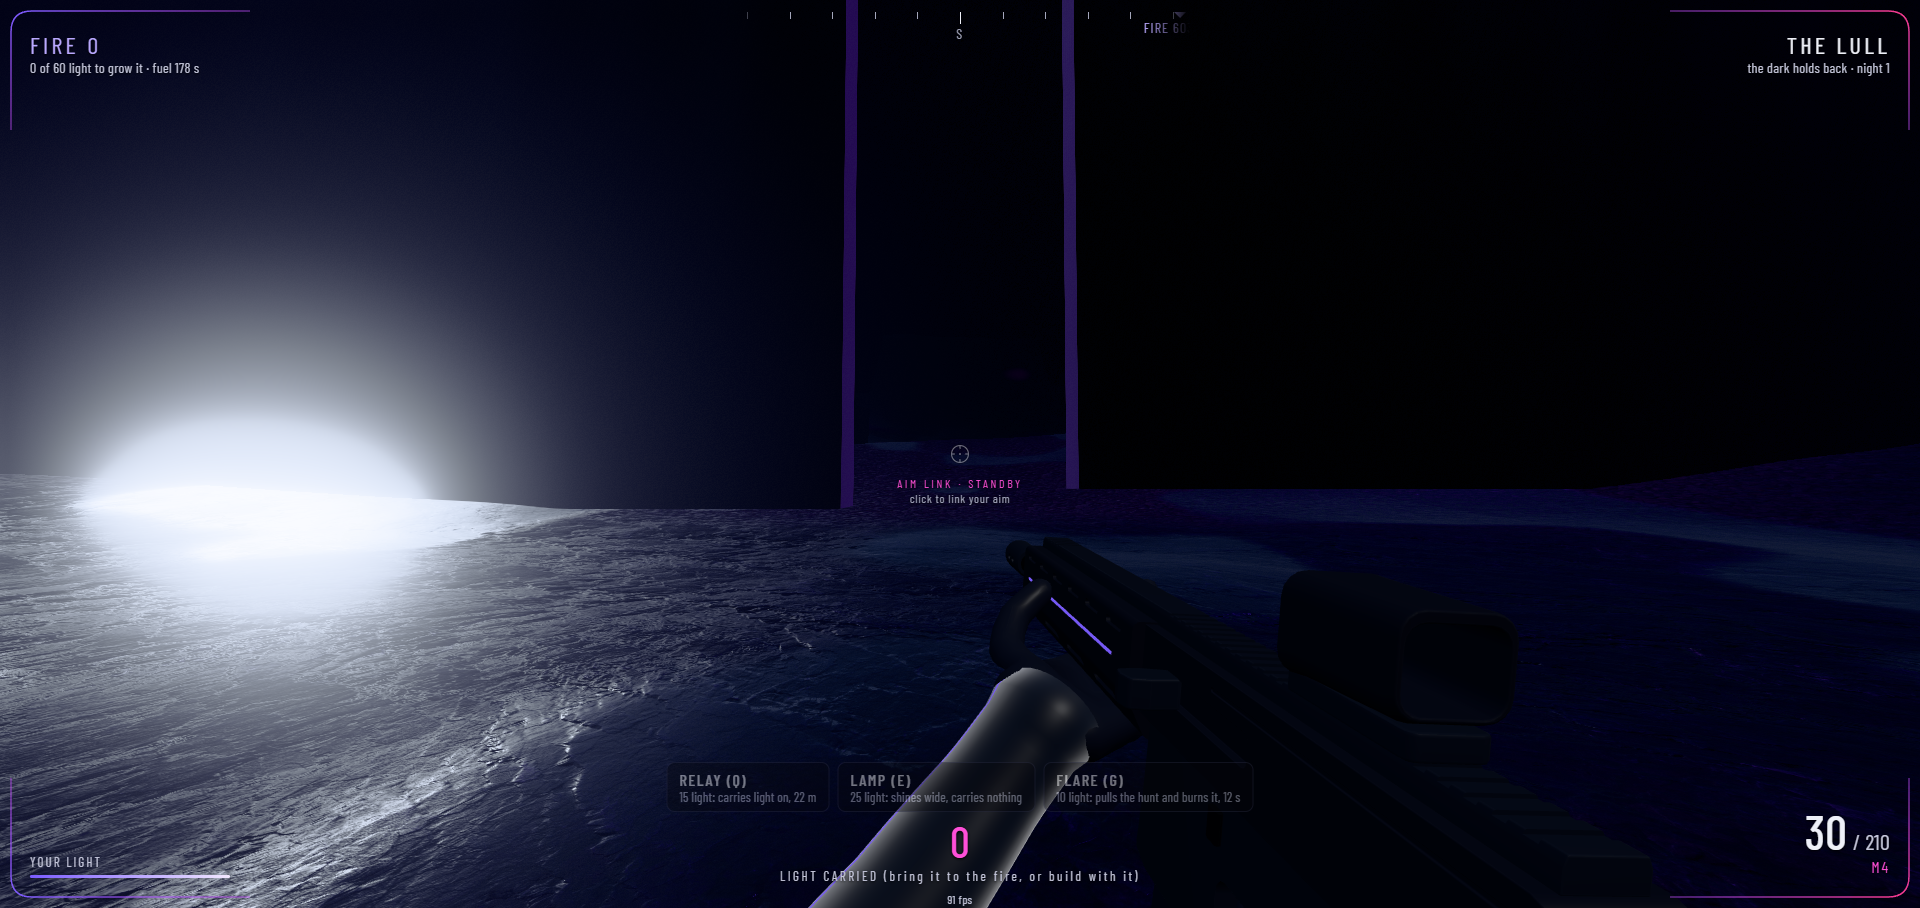
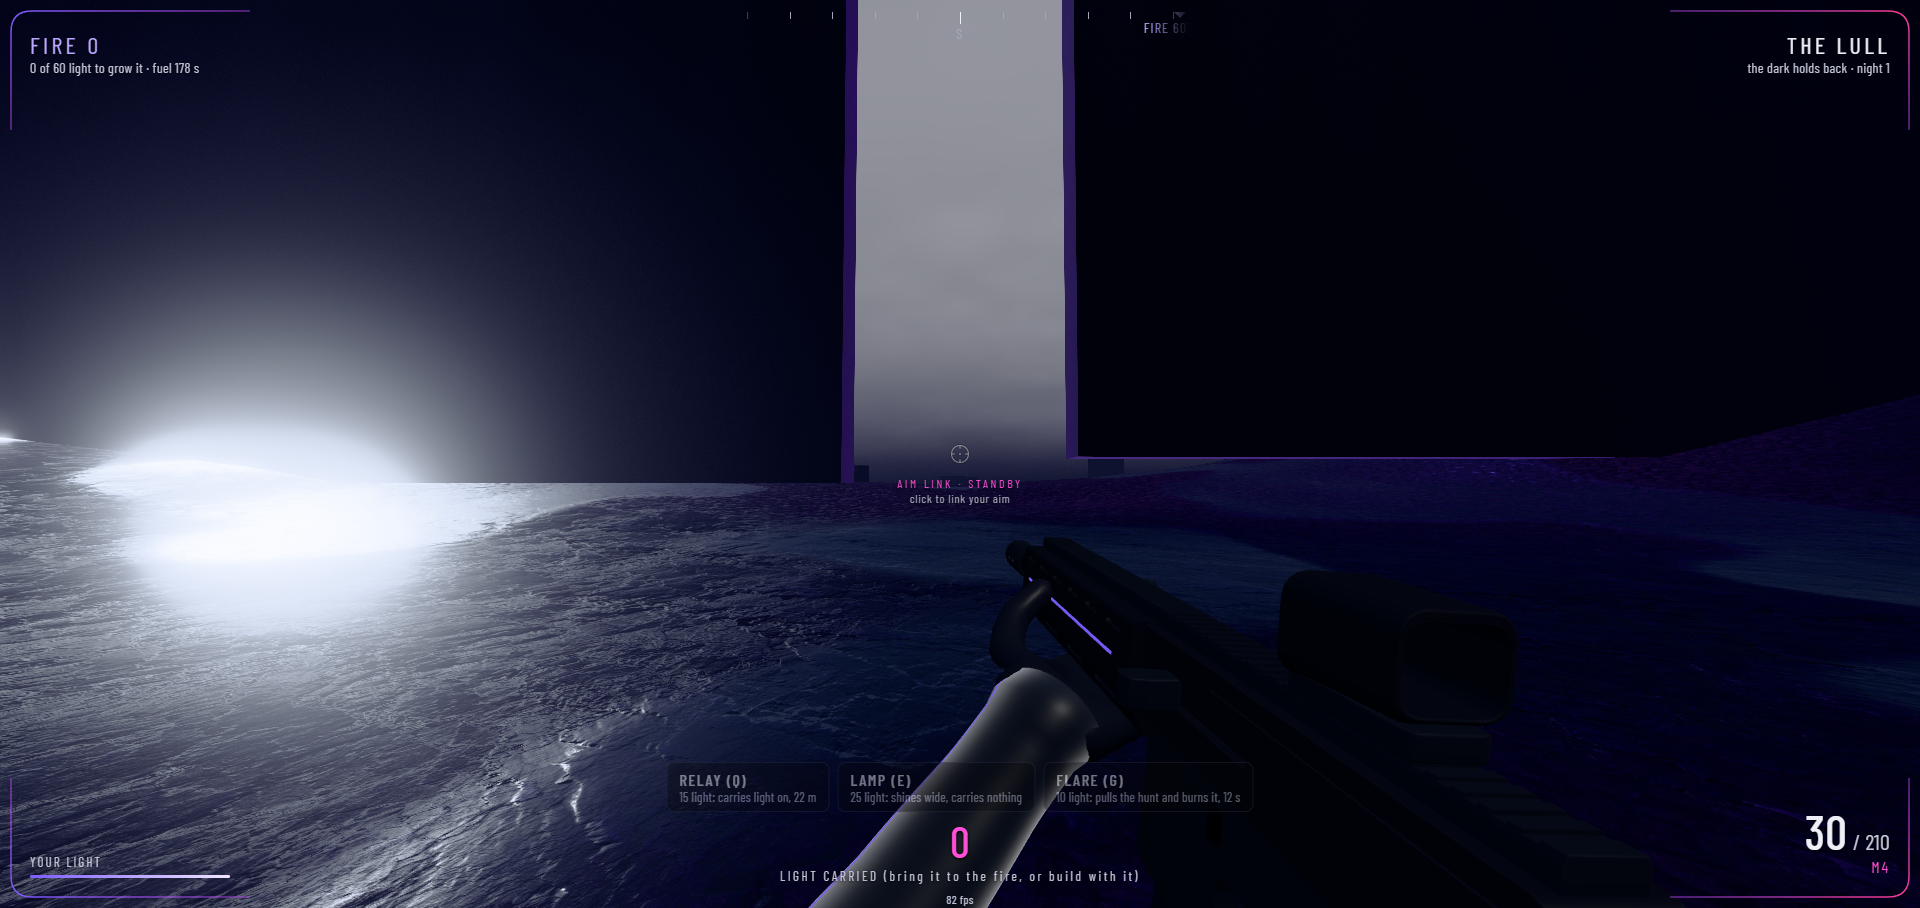
v161: the sky follows the camera (Earth had none), Earth's overcast day and starry night drive fog and ambient light

Changed region(s): [[0.0, 0.0, 1.0, 1.0], [0.4688, 0.9868, 0.5312, 1.0], [0.375, 0.7709, 0.4375, 0.8018]]

diff --git a/next/client/main.js b/next/client/main.js
@@ -1,37 +1,37 @@
 // Last Fire (the new foundation), piece 1: drawing, sound and input around the rules in core/game.js.
 // The rules run here as host; nothing in this file decides what happens, only what you see, hear and send in.
 import * as THREE from 'three';
-import * as C from '../core/game.js?v=160';
-import { Ambience } from './ambience.js?v=160';
-import { Camp, BOARD } from './camp.js?v=160';
-import { Guide } from './guide.js?v=160';
-import { buildSites } from './earthsite.js?v=160';
-import { Truck } from './truck.js?v=160';
-import { ShipView } from './shipview.js?v=160';
-import { Crew } from './crew.js?v=160';
-import { Hands } from './hands.js?v=160';
-import { FpRig } from './fprig.js?v=160';
-import { farStep } from './farsound.js?v=160';
-import { Wrist } from './wrist.js?v=160';
-import { FireCore } from './firecore.js?v=160';
+import * as C from '../core/game.js?v=161';
+import { Ambience } from './ambience.js?v=161';
+import { Camp, BOARD } from './camp.js?v=161';
+import { Guide } from './guide.js?v=161';
+import { buildSites } from './earthsite.js?v=161';
+import { Truck } from './truck.js?v=161';
+import { ShipView } from './shipview.js?v=161';
+import { Crew } from './crew.js?v=161';
+import { Hands } from './hands.js?v=161';
+import { FpRig } from './fprig.js?v=161';
+import { farStep } from './farsound.js?v=161';
+import { Wrist } from './wrist.js?v=161';
+import { FireCore } from './firecore.js?v=161';
 import { EffectComposer } from '../../vendor/jsm/postprocessing/EffectComposer.js';
 import { RenderPass } from '../../vendor/jsm/postprocessing/RenderPass.js';
 import { UnrealBloomPass } from '../../vendor/jsm/postprocessing/UnrealBloomPass.js';
 import { OutputPass } from '../../vendor/jsm/postprocessing/OutputPass.js';
 import { ShaderPass } from '../../vendor/jsm/postprocessing/ShaderPass.js';
-import { think as friendThink } from './friend.js?v=160';
-import { FriendVoice } from './friendvoice.js?v=160';
-import { crewFrom } from '../core/habits.js?v=160';
-import { HudLook } from './hudlook.js?v=160';
-import { applyLook } from './looks.js?v=160';
-import { Net, roomCode, cleanCode, CODE_LEN, MAX_PLAYERS } from './net.js?v=160';
-import { sound, GUNS } from '../../src/combat.js?v=160';
-import { FX } from '../../src/fx.js?v=160';
+import { think as friendThink } from './friend.js?v=161';
+import { FriendVoice } from './friendvoice.js?v=161';
+import { crewFrom } from '../core/habits.js?v=161';
+import { HudLook } from './hudlook.js?v=161';
+import { applyLook } from './looks.js?v=161';
+import { Net, roomCode, cleanCode, CODE_LEN, MAX_PLAYERS } from './net.js?v=161';
+import { sound, GUNS } from '../../src/combat.js?v=161';
+import { FX } from '../../src/fx.js?v=161';
 import { GLTFLoader } from '../../vendor/jsm/loaders/GLTFLoader.js';
 import { clone as skClone } from '../../vendor/jsm/utils/SkeletonUtils.js';
 
 const $ = id => document.getElementById(id);
-const BUILD = 160;   // (this copy's version; ./version.json says the newest)
+const BUILD = 161;   // (this copy's version; ./version.json says the newest)
 const DEFAULTS = { sens: 1, vol: 0.8, fov: 78, adsSens: 0.65, aimToggle: true, sprintToggle: false, invertY: false, autoReload: true, cross: true };   // (his quality of life ask, 2026-10-19: aim is a toggle by default, and every one of these is a click in the pause menu)
 const SET = Object.assign({ ...DEFAULTS, name: '' }, (() => { try { return JSON.parse(localStorage.getItem('lastfire2') || '{}'); } catch (e) { return {}; } })());
 const save = () => { try { localStorage.setItem('lastfire2', JSON.stringify(SET)); } catch (e) {} };
@@ -60,7 +60,7 @@ const grade = new ShaderPass({ uniforms: { tDiffuse: { value: null }, uT: { valu
 composer.addPass(grade); composer.addPass(new OutputPass());
 const softDot = (() => { const c = document.createElement('canvas'); c.width = c.height = 64; const x = c.getContext('2d'), gr = x.createRadialGradient(32, 32, 0, 32, 32, 32); gr.addColorStop(0, 'rgba(255,255,255,1)'); gr.addColorStop(0.35, 'rgba(255,255,255,0.55)'); gr.addColorStop(1, 'rgba(255,255,255,0)'); x.fillStyle = gr; x.fillRect(0, 0, 64, 64); const t = new THREE.CanvasTexture(c); return t; })();   // (round, soft points: embers and motes were square specks)
 scene.fog = new THREE.FogExp2(0x04060c, 0.016); scene.background = new THREE.Color(0x02030a);
-scene.add(new THREE.HemisphereLight(0x5a6fb0, 0x020306, 0.09));   // (barely any moonlight: the dark is dark, the light is yours)
+const hemi = new THREE.HemisphereLight(0x5a6fb0, 0x020306, 0.09); scene.add(hemi); const FOG_NIGHT = new THREE.Color(0x04060c), FOG_EARTH_DAY = new THREE.Color(0x30333b);   // (barely any moonlight: the dark is dark, the light is yours)
 // the sky's logic, given to everything (his rule: the sky is the reference for pretty). Research: small bright accents read on large dark
 // fields, saturation shows in the dark (Hunt 2001), rim light separates a form from a dark background. So objects stay dark and get a thin
 // violet edge, taken from the sky's own violet, fading past 60 m; the ground gets rare mineral glints, stars underfoot.
@@ -76,9 +76,9 @@ THREE.ShaderChunk.emissivemap_fragment += `
 #endif`;
 function rimAll() { scene.traverse(o => { if (!o.isMesh || !o.material || o.material === groundMat) return; for (const m of Array.isArray(o.material) ? o.material : [o.material]) if (m.isMeshStandardMaterial && !m.userData.rim) { m.userData.rim = 1; m.defines = { ...(m.defines || {}), USE_RIM: '' }; m.needsUpdate = true; } }); }
 setInterval(() => { if (g) rimAll(); }, 2000);   // (new things get their edge within two seconds; a material is changed once)
-const sky = new THREE.Mesh(new THREE.SphereGeometry(800, 48, 24), new THREE.ShaderMaterial({ side: THREE.BackSide, depthWrite: false, fog: false, uniforms: { uT: { value: 0 }, uEarth: { value: 0 }, uFog: { value: scene.fog.color } },
+const sky = new THREE.Mesh(new THREE.SphereGeometry(800, 48, 24), new THREE.ShaderMaterial({ side: THREE.BackSide, depthWrite: false, fog: false, uniforms: { uT: { value: 0 }, uEarth: { value: 0 }, uDay: { value: 0 }, uFog: { value: scene.fog.color } },
   vertexShader: 'varying vec3 vD; void main(){ vD = normalize(position); gl_Position = projectionMatrix * modelViewMatrix * vec4(position, 1.0); }',
-  fragmentShader: `varying vec3 vD; uniform float uT; uniform float uEarth; uniform vec3 uFog;
+  fragmentShader: `varying vec3 vD; uniform float uT; uniform float uEarth; uniform float uDay; uniform vec3 uFog;
     float h(vec3 p){ p = fract(p * 0.3183 + 0.1); p *= 17.0; return fract(p.x * p.y * p.z * (p.x + p.y + p.z)); }
     float n(vec3 x){ vec3 i = floor(x), f = fract(x); f = f * f * (3.0 - 2.0 * f); return mix(mix(mix(h(i), h(i + vec3(1,0,0)), f.x), mix(h(i + vec3(0,1,0)), h(i + vec3(1,1,0)), f.x), f.y), mix(mix(h(i + vec3(0,0,1)), h(i + vec3(1,0,1)), f.x), mix(h(i + vec3(0,1,1)), h(i + vec3(1,1,1)), f.x), f.y), f.z); }
     float fbm(vec3 p){ float a = 0.5, s = 0.0; for (int i = 0; i < 5; i++) { s += a * n(p); p *= 2.03; a *= 0.5; } return s; }
@@ -98,6 +98,10 @@ const sky = new THREE.Mesh(new THREE.SphereGeometry(800, 48, 24), new THREE.Shad
       float nearS = step(0.988, nr) * (exp(-dot(nf, nf) * 1400.0) + 0.22 * exp(-abs(nf.x) * 110.0 - abs(nf.y) * 12.0) + 0.22 * exp(-abs(nf.y) * 110.0 - abs(nf.x) * 12.0));
       vec3 tint = mix(vec3(1.0, 0.94, 1.0), mix(vec3(0.72, 0.66, 1.0), vec3(1.0, 0.62, 0.86), step(0.5, h(mid + 2.0))), step(0.7, h(mid + 1.0)));
       col += (vec3(0.92, 0.9, 1.0) * stars + tint * midS * 1.6 + vec3(1.0, 0.95, 1.0) * nearS * 1.3) * sky;
+      if (uEarth > 0.5 && uDay > 0.0) {   /* Earth's day is overcast: a low dark-gray deck that breaks a little, the stars gone behind it (his picture: dark gray, fog mixed with dark) */
+        float cl = fbm(vec3(d.xz / max(d.y + 0.25, 0.08) * 0.9, uT * 0.01)), deck = mix(0.82, 1.18, smoothstep(0.3, 0.75, cl));
+        vec3 over = mix(vec3(0.2, 0.205, 0.235), vec3(0.34, 0.345, 0.385), smoothstep(-0.05, 0.7, d.y)) * deck;   /* (look 3 keeps true blacks: under about 0.15 the deck crushed to black) */
+        col = mix(col, over, uDay); }
       col = mix(uFog, col, smoothstep(-0.03, 0.24, d.y));   /* (the horizon is the fog's own color, so far ground and sky are one haze: no seam where the stars stop, his note 2026-10-19) */
       // Earth, seen from the Moon: blue where it is still itself, black where the dark has taken it, thin violet where the two meet (PLAN-SPACE.md)
       vec3 E = normalize(vec3(0.6, 0.22, -0.78)); float R = 0.15, a = acos(clamp(dot(d, E), -1.0, 1.0));
@@ -623,7 +627,8 @@ function frame(now) {
   for (const e of [...evs, ...inbox.splice(0)]) { friendHeard(e); if (e[1] === 'honor') say(`${e[2] === SET.name ? 'The camp raised a lamp in the yard with your name on it' : `The camp raised a lamp for ${e[2]}`}: ${e[3]} so far, one for every 300 light of credit.`, 6); if (e[1] === 'pool') say(`The camp's pool goes into the fire: ${e[2]} light, gathered while friends were away. Everyone shares it now.`, 6); if (e[1] === 'fall' && e[2] === me.id) { const t = (g.traces || []).filter(t => t.of === me.id).pop(); say(lastFall = `You fell to ${e[3] ? 'a ' + e[3] : 'the dark'}${t && Math.hypot(t.fx - t.x, t.fz - t.z) > 0.5 ? `, from the ${dirName(t.fx - t.x, t.fz - t.z)}` : ''}. Your last ten seconds are drawn in red where you fell.`, 6); } else if (e[1] !== 'allfell') lastFall = '';
     if (e[1] === 'goes' || e[1] === 'returned' || e[1] === 'lost') { const who = String(e[2] || ''), Who = who[0] ? who[0].toUpperCase() + who.slice(1) : who;   // (the Clerk's paperwork on people who go out: dry, true, filed)
       say(e[1] === 'goes' ? `${Who} went out this morning. Form 7-B filed. Expected back tomorrow, per the form.` : e[1] === 'returned' ? `${Who} is back. The form was right, for once.` : `${Who} did not come back. Form 9-C, in triplicate. The council calls it a reassignment.`, 7); } if (e[2] === me.id && (e[1] === 'rise' || e[1] === 'stranded' || (e[1] === 'fall' && C.onEarth(me)))) settleStake(e[1] === 'rise'); if (e[1] === 'flood' && Number.isFinite(e[2])) { const x = Math.cos(e[2]), z = Math.sin(e[2]), h = ((Math.atan2(-x, -z) + Math.PI * 2) % (Math.PI * 2)) / (Math.PI * 2), dir = ['north', 'north-east', 'east', 'south-east', 'south', 'south-west', 'west', 'north-west'][Math.round(h * 8) % 8]; say(`The dark is pooling to the ${dir}, where your light is thinnest. It will pour in there.`, 5); } if (e[1] === 'bank') { sound.drop(); say(`+${Math.floor(e[3])} light to the fire.`, 2); } if (e[1] === 'level') { growFire(); sound.roundEnd(); say(`The fire grows to level ${e[2]}. Tonight the dark will answer.`, 5); } if (e[1] === 'dusk' && isHost()) duskSnap = JSON.stringify(C.saveWorld(g)); if (e[1] === 'dusk') { sound.round(); say(e[3] ? 'It stirs. The fire\'s growth woke something.' : 'It stirs.', 4); } if (e[1] === 'broke') say(`A ${e[2]} was torn down. The light past it went dark.`, 4); if (e[1] === 'allfell') say(`${lastFall ? lastFall + ' ' : ''}Everyone fell. The fire took you back; the light you carried is out there where you dropped it.`, 7); }
-  drawHollow(wdt); drawGrowRing(dt); drawBreach(dt); hitStop = Math.max(0, hitStop - dt); drawBurns(dt); drawTraces(); drawFlares(); drawNetwork(now / 1000); drawMotes(); drawMarks(); fx.update(wdt); sky.material.uniforms.uT.value = now / 1000; grade.uniforms.uT.value = now / 1000; { const e = C.onEarth(me) ? 1 : 0; sky.material.uniforms.uEarth.value = e; scene.fog.density = (e ? 0.024 : 0.016) * (lookFx ? lookFx.fogK : 1); }
+  drawHollow(wdt); drawGrowRing(dt); drawBreach(dt); hitStop = Math.max(0, hitStop - dt); drawBurns(dt); drawTraces(); drawFlares(); drawNetwork(now / 1000); drawMotes(); drawMarks(); fx.update(wdt); sky.material.uniforms.uT.value = now / 1000; grade.uniforms.uT.value = now / 1000; { const e = C.onEarth(me) ? 1 : 0, c = g.clock, day = e ? (c < C.DUSK_AT ? 1 : c < C.NIGHT_AT ? 1 - (c - C.DUSK_AT) / (C.NIGHT_AT - C.DUSK_AT) : c < C.DAWN_AT ? 0 : (c - C.DAWN_AT) / (1 - C.DAWN_AT)) : 0;   /* (Earth has a real day and night, his ask 2026-10-19: overcast gray by day, the stars by night; the Moon has no air, so its sky stays black) */
+    sky.position.copy(camera.position); sky.material.uniforms.uEarth.value = e; sky.material.uniforms.uDay.value = day;   /* (the dome follows you: it sat at the Moon camp, so on Earth, 6 km away, there was no sky at all, only black) */ scene.fog.color.copy(FOG_NIGHT).lerp(FOG_EARTH_DAY, day); hemi.intensity = 0.09 + 0.9 * day; hemi.color.setHex(day > 0.5 ? 0x8890a8 : 0x5a6fb0); scene.fog.density = (e ? 0.024 : 0.016) * (lookFx ? lookFx.fogK : 1); }
   if (buildPick) { const s = buildSpot(); ghost.visible = true; ghost.position.set(s.x, g.land(s.x, s.z) + 0.05, s.z); } else ghost.visible = false;
   kick += -kick * Math.min(1, dt * 10); if ((hitT -= dt) <= 0) $('hit').className = '';
   coldHands(dt); updateShade(); scanCd = Math.max(0, scanCd - dt); me.crouch = crouch || slideT > 0;

diff --git a/next/client/friend.js b/next/client/friend.js
@@ -1,7 +1,7 @@
 // The learned friend (his ask, 2026-10-19: play with someone who feels exactly like Dalton, or like you): the same faithful robot the
 // certifier uses (sim/certify.mjs), playing one person's recorded habits (core/habits.js crewFrom). It keeps the camp; it never takes the lander.
-import { hitRay, damage, heightAt, KINDS, shotBy, canGrow, grow, fired } from '../core/game.js?v=160';
-import { SECTORS, CAL } from '../core/habits.js?v=160';
+import { hitRay, damage, heightAt, KINDS, shotBy, canGrow, grow, fired } from '../core/game.js?v=161';
+import { SECTORS, CAL } from '../core/habits.js?v=161';
 const PISTOL = { dmg: 40, head: 2.5, ap: 0.1, rate: 0.35 };
 export function think(g, p, r, dt) {   // (one robot plays one person's habits: where they roam, when they bank, how they aim, the way they never look)
   const S = p.style; if (p.ember) return; const f = g.fire;

diff --git a/next/client/earthsite.js b/next/client/earthsite.js
@@ -1,8 +1,8 @@
 // The lander and the landing site (PLAN-SPACE.md step 3: gray boxes first; real models come after the robots and his hands say the trip is right).
 // The pad on the Moon and the site on Earth each get a lander; Earth gets a dead city of broken towers around the site.
 import * as THREE from 'three';
-import { PAD, EARTH, TOWERS, WALLS } from '../core/game.js?v=160';
-import { buildShip } from './shipmodel.js?v=160';
+import { PAD, EARTH, TOWERS, WALLS } from '../core/game.js?v=161';
+import { buildShip } from './shipmodel.js?v=161';
 
 function lander(scene, x, z, y) {   // (the pad, and on it the ship modeled in code: the old cylinder, cone and floating red window were gray-box stand-ins he saw up close, 2026-10-19)
   const g = new THREE.Group(), line = new THREE.MeshBasicMaterial({ color: 0xff3b5c });

diff --git a/next/client/truck.js b/next/client/truck.js
@@ -1,8 +1,8 @@
 // Parts lying out on Earth, and the truck at the bay in camp, drawn as it is really fitted. The model is made in code (truckmodel.js):
 // each part a few smooth surfaces you can read from far away, so you know what you found, and the whole truck five draw calls.
 import * as THREE from 'three';
-import { BAY, PARTS } from '../core/game.js?v=160';
-import { buildTruck, buildPart, buildRoofLamp } from './truckmodel.js?v=160';
+import { BAY, PARTS } from '../core/game.js?v=161';
+import { buildTruck, buildPart, buildRoofLamp } from './truckmodel.js?v=161';
 
 const FULL = Object.fromEntries(Object.entries(PARTS).map(([k, v]) => [k, v.n])), WRECK = { frame: 1, axle: 1, wheel: 1, cab: 1 };   // (a wreck: what is left after the scavengers)
 export class Truck {

diff --git a/next/client/shipview.js b/next/client/shipview.js
@@ -3,9 +3,9 @@
 // The model: assets/ship.glb when it exists (made by TRELLIS.2 from a concept), else the ship modeled in code (shipmodel.js).
 import * as THREE from 'three';
 import { GLTFLoader } from '../../vendor/jsm/loaders/GLTFLoader.js';
-import { SHIP, flyShip } from '../core/ship.js?v=160';
-import { shipBounds } from '../core/game.js?v=160';
-import { buildShip } from './shipmodel.js?v=160';
+import { SHIP, flyShip } from '../core/ship.js?v=161';
+import { shipBounds } from '../core/game.js?v=161';
+import { buildShip } from './shipmodel.js?v=161';
 
 export class ShipView {
   constructor(scene, land) {

diff --git a/next/index.html b/next/index.html
@@ -133,6 +133,6 @@
   <b style="font:500 20px 'Barlow Condensed';letter-spacing:.12em;color:var(--neon)">UPDATE READY</b><p id="updNote" class="note" style="margin:4px 0 10px"></p>
   <div style="display:flex;gap:8px"><button class="key" id="updYes" style="margin:0">UPDATE NOW<small>(you're right back here)</small></button><button class="key" id="updNo" style="margin:0;width:auto">LATER</button></div>
 </div></div>
-<script type="module" src="./client/main.js?v=160"></script>
+<script type="module" src="./client/main.js?v=161"></script>
 </body>
 </html>
